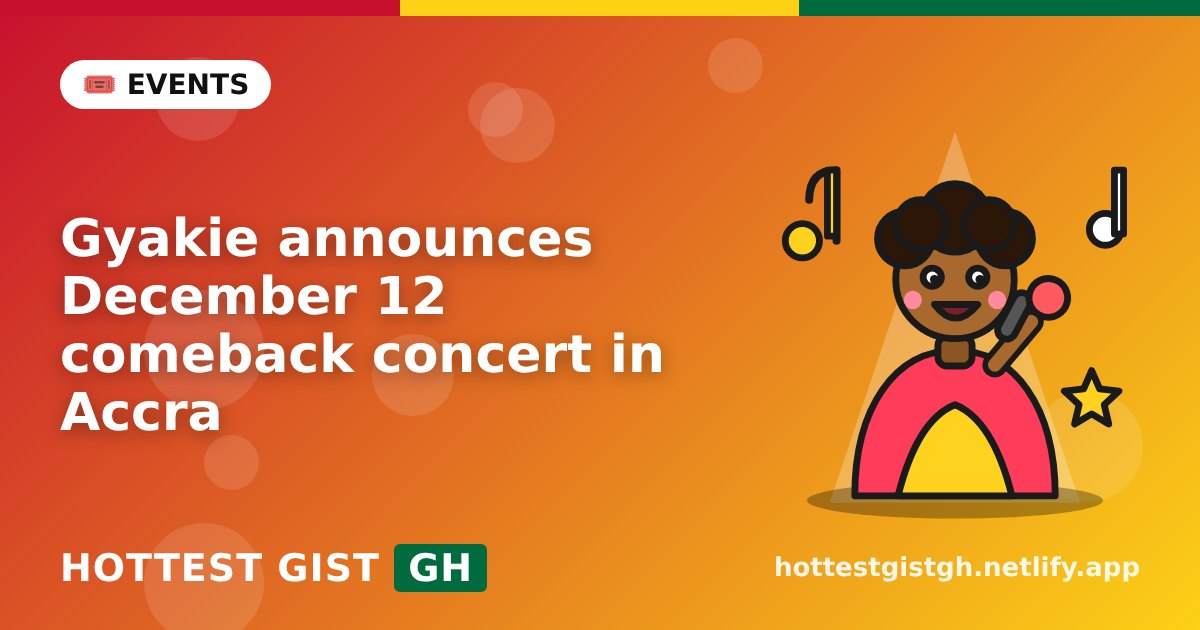
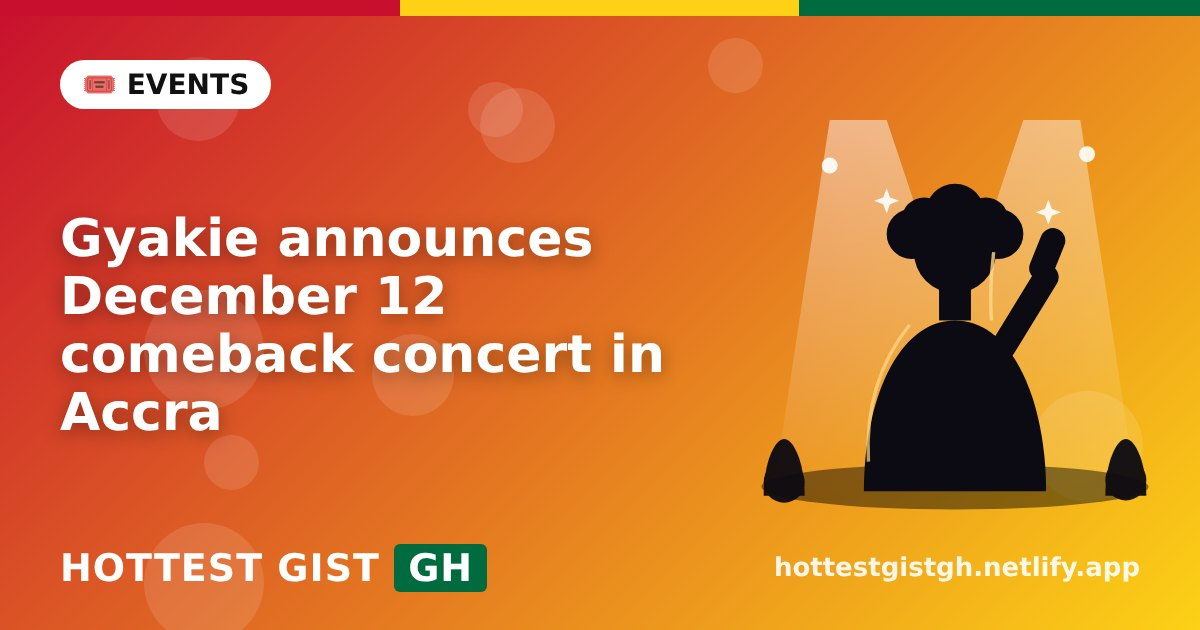
More realistic cover illustrations (lighting, shadows, silhouettes)
Claude-Session: https://claude.ai/code/session_01BXd4B9AEnZGQEtneuyL2Ve

Changed region(s): [[0.6167, 0.181, 0.9558, 0.8444]]

diff --git a/tools/cover.py b/tools/cover.py
@@ -21,74 +21,88 @@ EMOJI = {"Afrobeats": "🔥", "Highlife": "🎺", "Hiplife": "🎤", "Gospel": "
          "News": "📰", "Trending": "📈", "Sports": "⚽", "Business": "💰", "Tech": "💻", "Lifestyle": "✨", "Education": "🎓"}
 
 
+DEFS = """<defs>
+<linearGradient id="gold" x1="0" y1="0" x2="1" y2="1"><stop offset="0" stop-color="#fff6b0"/><stop offset=".45" stop-color="#f3b61f"/><stop offset="1" stop-color="#9a5f00"/></linearGradient>
+<linearGradient id="goldT" x1="0" y1="0" x2="1" y2="0"><stop offset="0" stop-color="#fffbd0"/><stop offset="1" stop-color="#f7cf47"/></linearGradient>
+<linearGradient id="goldS" x1="0" y1="0" x2="0" y2="1"><stop offset="0" stop-color="#d79a12"/><stop offset="1" stop-color="#7a4a00"/></linearGradient>
+<linearGradient id="brick" x1="0" y1="0" x2="0" y2="1"><stop offset="0" stop-color="#e6cfa8"/><stop offset="1" stop-color="#b99a6c"/></linearGradient>
+<linearGradient id="roof" x1="0" y1="0" x2="0" y2="1"><stop offset="0" stop-color="#b3392f"/><stop offset="1" stop-color="#6f1d18"/></linearGradient>
+<linearGradient id="glass" x1="0" y1="0" x2="1" y2="1"><stop offset="0" stop-color="#d8f0ff"/><stop offset="1" stop-color="#5f9fd6"/></linearGradient>
+<linearGradient id="wood" x1="0" y1="0" x2="1" y2="0"><stop offset="0" stop-color="#6b3f1e"/><stop offset="1" stop-color="#4a2a12"/></linearGradient>
+<linearGradient id="beam" x1="0" y1="0" x2="0" y2="1"><stop offset="0" stop-color="#fff" stop-opacity=".85"/><stop offset="1" stop-color="#fff" stop-opacity="0"/></linearGradient>
+<linearGradient id="metal" x1="0" y1="0" x2="1" y2="0"><stop offset="0" stop-color="#555"/><stop offset=".45" stop-color="#e8e8e8"/><stop offset="1" stop-color="#3a3a3a"/></linearGradient>
+<radialGradient id="sphere" cx=".35" cy=".3" r=".8"><stop offset="0" stop-color="#8fd3ff"/><stop offset=".55" stop-color="#1b6fc4"/><stop offset="1" stop-color="#08254f"/></radialGradient>
+<radialGradient id="land" cx=".4" cy=".3" r=".9"><stop offset="0" stop-color="#58b957"/><stop offset="1" stop-color="#1c6a31"/></radialGradient>
+<radialGradient id="ball" cx=".35" cy=".3" r=".85"><stop offset="0" stop-color="#fff"/><stop offset=".7" stop-color="#e5e5e5"/><stop offset="1" stop-color="#8d8d8d"/></radialGradient>
+<linearGradient id="screen" x1="0" y1="0" x2="1" y2="1"><stop offset="0" stop-color="#2f80ed"/><stop offset="1" stop-color="#0b2a66"/></linearGradient>
+<linearGradient id="paper" x1="0" y1="0" x2="1" y2="1"><stop offset="0" stop-color="#fff5c2"/><stop offset="1" stop-color="#f1c232"/></linearGradient>
+<filter id="sh" x="-20%" y="-20%" width="150%" height="150%"><feDropShadow dx="0" dy="8" stdDeviation="7" flood-color="#000" flood-opacity=".4"/></filter>
+</defs>"""
 ART = {
-"school": """<rect x="50" y="150" width="260" height="160" rx="14" fill="#fff"/>
-<polygon points="28,158 180,62 332,158" fill="#fcd116"/>
-<rect x="150" y="232" width="60" height="78" rx="30 30 4 4" fill="#ff5a5f"/><circle cx="198" cy="274" r="5" fill="#fcd116"/>
-<circle cx="115" cy="205" r="26" fill="#bde0ff"/><circle cx="245" cy="205" r="26" fill="#bde0ff"/>
-<circle cx="115" cy="205" r="9" fill="#1a1a1a"/><circle cx="245" cy="205" r="9" fill="#1a1a1a"/><circle cx="118" cy="201" r="3" fill="#fff" stroke="none"/><circle cx="248" cy="201" r="3" fill="#fff" stroke="none"/>
-<path d="M165 215q15 14 30 0" fill="none"/>
-<circle cx="180" cy="122" r="20" fill="#fff"/><path d="M180 109v14l9 6" fill="none"/>
-<path d="M180 62V18" fill="none"/><path d="M180 20l46 14-46 14z" fill="#00a35c"/>
-<rect x="238" y="262" width="74" height="52" rx="6" fill="#ff7a00" transform="rotate(-10 275 288)"/><rect x="246" y="270" width="58" height="36" rx="4" fill="#fff" transform="rotate(-10 275 288)"/>
-<path d="M258 288l40-7" fill="none" stroke-width="4"/>
-<path d="M300 90l7 16 17 2-13 12 4 17-15-9-15 9 4-17-13-12 17-2z" fill="#fff"/>""",
-"gold": """<polygon points="30,300 62,232 200,232 232,300" fill="#ffd21f"/>
-<polygon points="110,232 142,164 280,164 312,232" fill="#ffb800"/>
-<polygon points="62,164 92,100 214,100 184,164" fill="#ffe56b" transform="translate(50 6)"/>
-<circle cx="130" cy="268" r="6" fill="#1a1a1a"/><circle cx="165" cy="268" r="6" fill="#1a1a1a"/><path d="M130 281q17 15 35 0" fill="none"/>
-<circle cx="282" cy="288" r="40" fill="#ffd21f"/><circle cx="282" cy="288" r="27" fill="#ffe56b"/>
-<path d="M282 270v36M271 278q11-8 22 0M271 298q11 8 22 0" fill="none" stroke-width="5"/>
-<circle cx="52" cy="150" r="28" fill="#ffd21f"/><circle cx="43" cy="146" r="4" fill="#1a1a1a" stroke="none"/><circle cx="61" cy="146" r="4" fill="#1a1a1a" stroke="none"/><path d="M40 158q12 12 24 0" fill="none" stroke-width="4"/>
-<path d="M250 60l8 20 21 2-16 14 5 21-18-12-18 12 5-21-16-14 21-2z" fill="#fff"/>
-<path d="M310 150l4 9 10 1-8 6 3 10-9-6-9 6 3-10-8-6 10-1z" fill="#fff" stroke-width="4"/>""",
-"stage": """<polygon points="180,10 70,336 290,336" fill="rgba(255,255,255,.25)" stroke="none"/>
-<ellipse cx="180" cy="334" rx="130" ry="16" fill="rgba(0,0,0,.3)" stroke="none"/>
-<path d="M92 330c0-78 36-128 88-128s88 50 88 128z" fill="#ff3d5a"/>
-<path d="M130 330c10-40 25-70 50-80 25 10 40 40 50 80z" fill="#ffd21f"/>
-<rect x="165" y="190" width="30" height="26" rx="8" fill="#8d5524"/>
-<circle cx="180" cy="140" r="52" fill="#a9682d"/>
-<circle cx="136" cy="104" r="24" fill="#2b1608"/><circle cx="224" cy="104" r="24" fill="#2b1608"/><circle cx="180" cy="86" r="30" fill="#2b1608"/><circle cx="150" cy="92" r="22" fill="#2b1608"/><circle cx="210" cy="92" r="22" fill="#2b1608"/>
-<circle cx="160" cy="138" r="8" fill="#fff"/><circle cx="200" cy="138" r="8" fill="#fff"/><circle cx="162" cy="140" r="4" fill="#1a1a1a" stroke="none"/><circle cx="202" cy="140" r="4" fill="#1a1a1a" stroke="none"/>
-<path d="M162 162q18 24 38 0z" fill="#7a1f2b"/><circle cx="143" cy="158" r="8" fill="#ff8aa0" stroke="none"/><circle cx="217" cy="158" r="8" fill="#ff8aa0" stroke="none"/>
-<path d="M215 215l32-38" stroke-width="22" stroke="#1a1a1a" fill="none"/><path d="M215 215l32-38" stroke-width="12" stroke="#a9682d" fill="none"/>
-<rect x="224" y="150" width="16" height="44" rx="8" fill="#555" transform="rotate(28 232 172)"/><circle cx="251" cy="144" r="17" fill="#ff5a5f" transform="rotate(28 232 172)"/>
-<path d="M52 70q0-26 24-26v62" fill="none" stroke-width="7" stroke="#1a1a1a"/><circle cx="46" cy="106" r="15" fill="#ffd21f"/><rect x="68" y="44" width="8" height="58" fill="#ffd21f"/>
-<circle cx="312" cy="96" r="14" fill="#fff"/><rect x="320" y="44" width="8" height="56" fill="#fff"/>
-<path d="M300 220l7 16 17 2-13 12 4 17-15-9-15 9 4-17-13-12 17-2z" fill="#ffd21f"/>""",
-"mic": """<rect x="130" y="30" width="100" height="160" rx="50" fill="#ff5a5f"/>
-<path d="M104 150a76 76 0 0 0 152 0" fill="none" stroke-width="16"/><path d="M104 150a76 76 0 0 0 152 0" fill="none" stroke="#fff" stroke-width="6"/>
-<rect x="168" y="224" width="24" height="56" fill="#ffd21f"/><rect x="116" y="278" width="128" height="22" rx="11" fill="#00a35c"/>
-<circle cx="160" cy="96" r="9" fill="#fff"/><circle cx="200" cy="96" r="9" fill="#fff"/><circle cx="162" cy="98" r="4" fill="#1a1a1a" stroke="none"/><circle cx="202" cy="98" r="4" fill="#1a1a1a" stroke="none"/>
-<path d="M160 128q20 20 40 0" fill="#7a1f2b"/>
-<circle cx="52" cy="100" r="14" fill="#ffd21f"/><rect x="62" y="40" width="8" height="62" fill="#ffd21f"/><circle cx="310" cy="140" r="14" fill="#fff"/><rect x="320" y="80" width="8" height="62" fill="#fff"/>""",
-"globe": """<circle cx="180" cy="190" r="130" fill="#4db8ff"/>
-<path d="M120 100l50-24 50 20 12 40-46 12-24 44-44-16z" fill="#2ecc71"/><path d="M200 220l56 6 14 48-40 36-34-38z" fill="#2ecc71"/><path d="M80 210l38 12-6 40-32-18z" fill="#2ecc71"/>
-<circle cx="145" cy="170" r="14" fill="#fff"/><circle cx="215" cy="170" r="14" fill="#fff"/><circle cx="148" cy="172" r="6" fill="#1a1a1a" stroke="none"/><circle cx="218" cy="172" r="6" fill="#1a1a1a" stroke="none"/>
-<path d="M150 214q30 32 60 0z" fill="#7a1f2b"/>
-<polygon points="300,28 309,52 334,53 315,69 321,93 300,79 279,93 285,69 266,53 291,52" fill="#ffd21f"/>""",
-"film": """<rect x="36" y="130" width="288" height="190" rx="16" fill="#fff"/>
-<rect x="36" y="76" width="288" height="58" rx="10" fill="#2b2b2b"/>
-<polygon points="56,78 104,78 84,132 36,132" fill="#ffd21f"/><polygon points="134,78 182,78 162,132 114,132" fill="#ff5a5f"/><polygon points="212,78 260,78 240,132 192,132" fill="#ffd21f"/><polygon points="290,78 330,78 320,132 270,132" fill="#ff5a5f"/>
-<circle cx="130" cy="210" r="11" fill="#1a1a1a"/><circle cx="230" cy="210" r="11" fill="#1a1a1a"/><circle cx="134" cy="206" r="4" fill="#fff" stroke="none"/><circle cx="234" cy="206" r="4" fill="#fff" stroke="none"/>
-<path d="M140 250q40 40 80 0z" fill="#7a1f2b"/>""",
-"ball": """<circle cx="180" cy="190" r="132" fill="#fff"/>
-<polygon points="180,128 226,160 208,214 152,214 134,160" fill="#2b2b2b"/>
-<path d="M180 128V62M226 160l58-26M208 214l34 54M152 214l-34 54M134 160L76 134" fill="none"/>
-<polygon points="180,52 208,70 198,100 162,100 152,70" fill="#2b2b2b"/><polygon points="300,126 316,160 296,184 268,170 272,138" fill="#2b2b2b"/><polygon points="60,126 88,138 92,170 64,184 44,160" fill="#2b2b2b"/>
-<circle cx="150" cy="182" r="7" fill="#fff" stroke="none"/><circle cx="210" cy="182" r="7" fill="#fff" stroke="none"/>""",
-"tech": """<rect x="64" y="80" width="232" height="164" rx="16" fill="#fff"/><rect x="82" y="98" width="196" height="128" rx="8" fill="#2d6cdf"/>
-<path d="M30 252h300l-24 40H54z" fill="#ffd21f"/>
-<circle cx="145" cy="150" r="12" fill="#fff"/><circle cx="215" cy="150" r="12" fill="#fff"/><circle cx="147" cy="152" r="5" fill="#1a1a1a" stroke="none"/><circle cx="217" cy="152" r="5" fill="#1a1a1a" stroke="none"/>
-<path d="M150 182q30 28 60 0" fill="none" stroke="#fff" stroke-width="7"/>""",
-"tv": """<rect x="40" y="80" width="280" height="196" rx="22" fill="#ff5a5f"/><rect x="60" y="100" width="240" height="156" rx="12" fill="#bfe9ff"/>
-<circle cx="140" cy="160" r="13" fill="#fff"/><circle cx="220" cy="160" r="13" fill="#fff"/><circle cx="142" cy="162" r="6" fill="#1a1a1a" stroke="none"/><circle cx="222" cy="162" r="6" fill="#1a1a1a" stroke="none"/>
-<path d="M145 200q35 34 70 0z" fill="#7a1f2b"/>
-<path d="M130 72l50-44 50 44" fill="none" stroke-width="8"/><rect x="110" y="276" width="140" height="18" rx="9" fill="#ffd21f"/>""",
-"ticket": """<path d="M30 100h300v56a26 26 0 0 0 0 52v56H30v-56a26 26 0 0 0 0-52z" fill="#ffd21f"/><path d="M246 100v164" stroke-dasharray="14 12" fill="none"/>
-<circle cx="120" cy="170" r="11" fill="#1a1a1a"/><circle cx="184" cy="170" r="11" fill="#1a1a1a"/><circle cx="123" cy="166" r="4" fill="#fff" stroke="none"/><circle cx="187" cy="166" r="4" fill="#fff" stroke="none"/>
-<path d="M120 198q32 32 64 0z" fill="#7a1f2b"/>
-<path d="M290 40l8 18 19 2-14 13 4 19-17-10-17 10 4-19-14-13 19-2z" fill="#fff"/>""",
+"school": """<ellipse cx="180" cy="325" rx="165" ry="16" fill="#000" opacity=".3"/>
+<g filter="url(#sh)"><rect x="40" y="165" width="280" height="150" fill="url(#brick)"/>
+<polygon points="22,170 180,70 338,170" fill="url(#roof)"/><polygon points="22,170 338,170 330,182 30,182" fill="#8f2a22"/>
+<rect x="70" y="190" width="220" height="120" fill="#efe3c9" opacity=".35"/>
+<g fill="#fff"><rect x="118" y="190" width="14" height="118"/><rect x="228" y="190" width="14" height="118"/><rect x="160" y="190" width="40" height="8"/></g>
+<rect x="158" y="230" width="44" height="80" rx="22 22 0 0" fill="url(#wood)"/><rect x="179" y="232" width="2" height="78" fill="#2d1a0a"/>
+<g fill="url(#glass)" stroke="#fff" stroke-width="4"><rect x="62" y="205" width="40" height="52"/><rect x="258" y="205" width="40" height="52"/></g>
+<g stroke="#fff" stroke-width="3"><path d="M82 205v52M62 231h40M278 205v52M258 231h40"/></g>
+<circle cx="180" cy="132" r="19" fill="#fff" stroke="#8f2a22" stroke-width="4"/><path d="M180 119v14l9 6" stroke="#222" stroke-width="3" fill="none" stroke-linecap="round"/>
+<g fill="#d6d6d6"><rect x="130" y="312" width="100" height="8"/><rect x="118" y="320" width="124" height="8"/></g></g>
+<rect x="178" y="22" width="4" height="52" fill="#ddd"/><polygon points="182,24 224,36 182,48" fill="#00a35c"/>""",
+"gold": """<ellipse cx="180" cy="322" rx="150" ry="16" fill="#000" opacity=".32"/>
+<g filter="url(#sh)">
+<g><polygon points="30,290 70,262 200,262 160,290" fill="url(#goldT)"/><rect x="30" y="290" width="130" height="30" fill="url(#gold)"/><polygon points="160,290 200,262 200,292 160,320" fill="url(#goldS)"/></g>
+<g><polygon points="170,290 210,262 340,262 300,290" fill="url(#goldT)"/><rect x="170" y="290" width="130" height="30" fill="url(#gold)"/><polygon points="300,290 340,262 340,292 300,320" fill="url(#goldS)"/></g>
+<g><polygon points="100,236 140,208 270,208 230,236" fill="url(#goldT)"/><rect x="100" y="236" width="130" height="30" fill="url(#gold)"/><polygon points="230,236 270,208 270,238 230,266" fill="url(#goldS)"/></g>
+<text x="165" y="258" font-size="20" font-weight="800" fill="#7a4a00" opacity=".8" text-anchor="middle" font-family="DejaVu Sans">GOLD 999.9</text>
+<g><ellipse cx="290" cy="170" rx="46" ry="46" fill="url(#gold)"/><circle cx="290" cy="170" r="34" fill="none" stroke="#fff3a8" stroke-width="4"/><text x="290" y="185" font-size="42" font-weight="800" fill="#fff3a8" text-anchor="middle" font-family="DejaVu Sans">$</text></g></g>
+<g fill="#fff"><path d="M70 120l5 14 14 5-14 5-5 14-5-14-14-5 14-5z"/><path d="M215 90l4 10 10 4-10 4-4 10-4-10-10-4 10-4z"/></g>""",
+"stage": """<polygon points="70,0 120,0 230,330 20,330" fill="url(#beam)" opacity=".55"/><polygon points="290,0 240,0 130,330 340,330" fill="url(#beam)" opacity=".5"/>
+<ellipse cx="180" cy="322" rx="170" ry="20" fill="#000" opacity=".45"/>
+<g fill="#0c0a12"><circle cx="180" cy="116" r="36"/><circle cx="142" cy="100" r="22"/><circle cx="218" cy="100" r="22"/><circle cx="180" cy="82" r="26"/><circle cx="153" cy="88" r="20"/><circle cx="207" cy="88" r="20"/>
+<rect x="166" y="140" width="28" height="36"/><path d="M100 326c0-80 30-150 80-150s80 70 80 150z"/><path d="M222 200l38-62" stroke="#0c0a12" stroke-width="22" stroke-linecap="round" fill="none"/><rect x="250" y="94" width="22" height="48" rx="11" transform="rotate(22 261 118)"/></g>
+<path d="M214 116q-4 30 -2 60" stroke="#ffd98a" stroke-width="3" fill="none" opacity=".8"/><path d="M104 300q-4-70 36-120" stroke="#ffd98a" stroke-width="3" fill="none" opacity=".7"/>
+<g fill="#0c0a12" opacity=".95"><circle cx="30" cy="318" r="18"/><circle cx="330" cy="316" r="18"/><path d="M12 330c0-30 10-50 18-50s18 20 18 50z"/><path d="M312 330c0-30 10-50 18-50s18 20 18 50z"/></g>
+<g fill="#fff" opacity=".9"><circle cx="70" cy="40" r="7"/><circle cx="296" cy="30" r="7"/><path d="M120 60l3 8 8 3-8 3-3 8-3-8-8-3 8-3z"/><path d="M262 70l3 8 8 3-8 3-3 8-3-8-8-3 8-3z"/></g>""",
+"mic": """<ellipse cx="180" cy="326" rx="110" ry="14" fill="#000" opacity=".35"/>
+<g filter="url(#sh)"><rect x="168" y="215" width="24" height="95" fill="url(#metal)"/><rect x="110" y="304" width="140" height="16" rx="8" fill="url(#metal)"/>
+<path d="M105 140a75 75 0 0 0 150 0" fill="none" stroke="url(#metal)" stroke-width="14" stroke-linecap="round"/>
+<rect x="125" y="36" width="110" height="180" rx="55" fill="url(#metal)"/><rect x="133" y="44" width="94" height="164" rx="47" fill="#222"/>
+<g stroke="#8a8a8a" stroke-width="2" opacity=".8"><path d="M140 70h80M138 90h84M138 110h84M138 130h84M138 150h84M140 170h80M144 190h72"/><path d="M160 50v150M180 46v160M200 50v150"/></g>
+<rect x="125" y="140" width="110" height="12" fill="#c8102e"/></g>""",
+"globe": """<ellipse cx="180" cy="334" rx="110" ry="12" fill="#000" opacity=".4"/>
+<circle cx="180" cy="185" r="142" fill="#5ab4ff" opacity=".25"/>
+<g filter="url(#sh)"><circle cx="180" cy="185" r="130" fill="url(#sphere)"/>
+<g fill="url(#land)"><path d="M118 98l48-26 46 16 14 36-40 12-24 40-42-16z"/><path d="M196 220l54 6 14 44-38 36-34-38z"/><path d="M78 205l40 14-6 38-34-16z"/></g>
+<g fill="none" stroke="#fff" stroke-width="1.5" opacity=".25"><ellipse cx="180" cy="185" rx="130" ry="50"/><ellipse cx="180" cy="185" rx="50" ry="130"/></g>
+<ellipse cx="135" cy="115" rx="55" ry="32" fill="#fff" opacity=".22" transform="rotate(-30 135 115)"/></g>
+<circle cx="150" cy="150" r="5" fill="#fcd116"/>""",
+"film": """<ellipse cx="180" cy="330" rx="150" ry="14" fill="#000" opacity=".35"/>
+<g filter="url(#sh)"><rect x="40" y="140" width="280" height="180" rx="10" fill="#1c1c1f"/>
+<rect x="52" y="152" width="256" height="156" fill="none" stroke="#fff" stroke-width="2" opacity=".35"/>
+<g fill="#fff" opacity=".85" font-family="DejaVu Sans" font-weight="800" font-size="20"><text x="62" y="186">ROLL</text><text x="62" y="228">SCENE</text><text x="62" y="270">TAKE</text></g>
+<g stroke="#fff" stroke-width="2" opacity=".5"><path d="M150 168h140M150 210h140M150 252h140"/></g>
+<g transform="rotate(-8 60 140)"><rect x="40" y="96" width="280" height="46" fill="#1c1c1f"/><g fill="#f4f4f4"><polygon points="52,96 100,96 76,142 28,142"/><polygon points="130,96 178,96 154,142 106,142"/><polygon points="208,96 256,96 232,142 184,142"/><polygon points="286,96 334,96 310,142 262,142"/></g></g></g>""",
+"ball": """<ellipse cx="180" cy="334" rx="110" ry="12" fill="#000" opacity=".4"/>
+<g filter="url(#sh)"><circle cx="180" cy="185" r="132" fill="url(#ball)"/>
+<polygon points="180,128 222,158 206,208 154,208 138,158" fill="#1d1d1d"/>
+<g fill="#1d1d1d"><polygon points="180,56 206,74 196,102 164,102 154,74"/><polygon points="296,120 312,152 294,176 268,162 272,132"/><polygon points="64,120 92,132 96,162 70,176 52,152"/><polygon points="130,300 160,282 190,300 178,328 142,328"/><polygon points="240,300 262,284 286,300 276,324 250,324"/></g>
+<g stroke="#9a9a9a" stroke-width="3" fill="none"><path d="M180 128V102M222 158l46 4M206 208l24 76M154 208l-24 76M138 158l-46 4"/></g></g>""",
+"tech": """<ellipse cx="180" cy="330" rx="160" ry="12" fill="#000" opacity=".35"/>
+<g filter="url(#sh)"><rect x="64" y="84" width="232" height="156" rx="12" fill="#2a2a2e"/><rect x="76" y="96" width="208" height="132" rx="4" fill="url(#screen)"/>
+<g fill="#fff" opacity=".9" font-family="DejaVu Sans" font-weight="800"><text x="96" y="140" font-size="26">&lt;/&gt;</text></g>
+<g stroke="#cfe3ff" stroke-width="6" opacity=".7" stroke-linecap="round"><path d="M96 168h90M96 188h130M96 208h70"/></g>
+<path d="M28 246h304l-20 44H48z" fill="url(#metal)"/><rect x="150" y="256" width="60" height="6" rx="3" fill="#777"/></g>""",
+"tv": """<ellipse cx="180" cy="334" rx="130" ry="12" fill="#000" opacity=".35"/>
+<g filter="url(#sh)"><rect x="36" y="70" width="288" height="200" rx="14" fill="#222"/><rect x="48" y="82" width="264" height="176" rx="6" fill="url(#screen)"/>
+<polygon points="48,82 180,82 110,258 48,258" fill="#fff" opacity=".08"/>
+<polygon points="160,130 160,210 226,170" fill="#fff" opacity=".92"/>
+<rect x="150" y="270" width="60" height="30" fill="url(#metal)"/><rect x="110" y="298" width="140" height="12" rx="6" fill="url(#metal)"/></g>""",
+"ticket": """<ellipse cx="180" cy="324" rx="150" ry="12" fill="#000" opacity=".3"/>
+<g filter="url(#sh)" transform="rotate(-6 180 190)"><path d="M30 100h300v58a26 26 0 0 0 0 52v58H30v-58a26 26 0 0 0 0-52z" fill="url(#paper)"/><path d="M246 100v168" stroke="#b8860b" stroke-width="3" stroke-dasharray="10 8"/>
+<g fill="#7a4a00" font-family="DejaVu Sans" font-weight="800"><text x="50" y="160" font-size="34">ADMIT</text><text x="50" y="200" font-size="34">ONE</text></g>
+<g fill="#7a4a00"><rect x="262" y="130" width="4" height="70"/><rect x="272" y="130" width="8" height="70"/><rect x="286" y="130" width="3" height="70"/><rect x="295" y="130" width="6" height="70"/><rect x="306" y="130" width="3" height="70"/></g></g>""",
 }
 def pick_art(title, cat):
     t = title.lower()
@@ -114,7 +128,7 @@ def make(title, cat, out):
     <style>i{{position:absolute;border-radius:50%;background:rgba(255,255,255,.12)}}</style>{dots}
     <div style="position:absolute;top:0;left:0;right:0;height:16px;background:linear-gradient(90deg,#c8102e 33.3%,#fcd116 33.3% 66.6%,#006b3f 66.6%)"></div>
     <div style="position:absolute;left:60px;top:60px;background:#fff;color:#111;font:800 28px 'DejaVu Sans',sans-serif;padding:8px 22px;border-radius:40px">{e} {html.escape(cat.upper())}</div>
-    <svg viewBox="0 0 360 360" style="position:absolute;right:40px;top:120px;width:410px;height:410px"><g stroke="#1a1a1a" stroke-width="6" stroke-linejoin="round" stroke-linecap="round">{art}</g></svg>
+    <svg viewBox="0 0 360 360" style="position:absolute;right:40px;top:120px;width:410px;height:410px">{DEFS}{art}</svg>
     <div style="position:absolute;left:60px;right:480px;top:150px;bottom:130px;display:flex;align-items:center;
       font:800 {size}px/1.12 'DejaVu Sans',sans-serif;text-shadow:0 4px 18px rgba(0,0,0,.35)">{html.escape(title)}</div>
     <div style="position:absolute;left:60px;bottom:40px;font:800 38px 'DejaVu Sans',sans-serif;letter-spacing:1px">HOTTEST GIST <span style="background:#006b3f;padding:2px 14px;border-radius:6px">GH</span></div>
